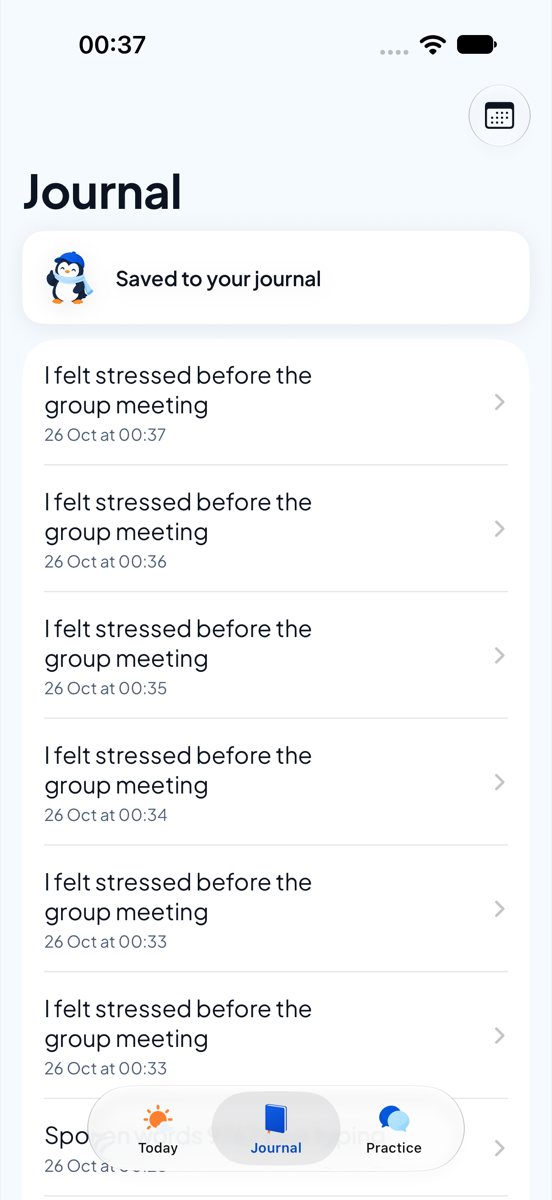
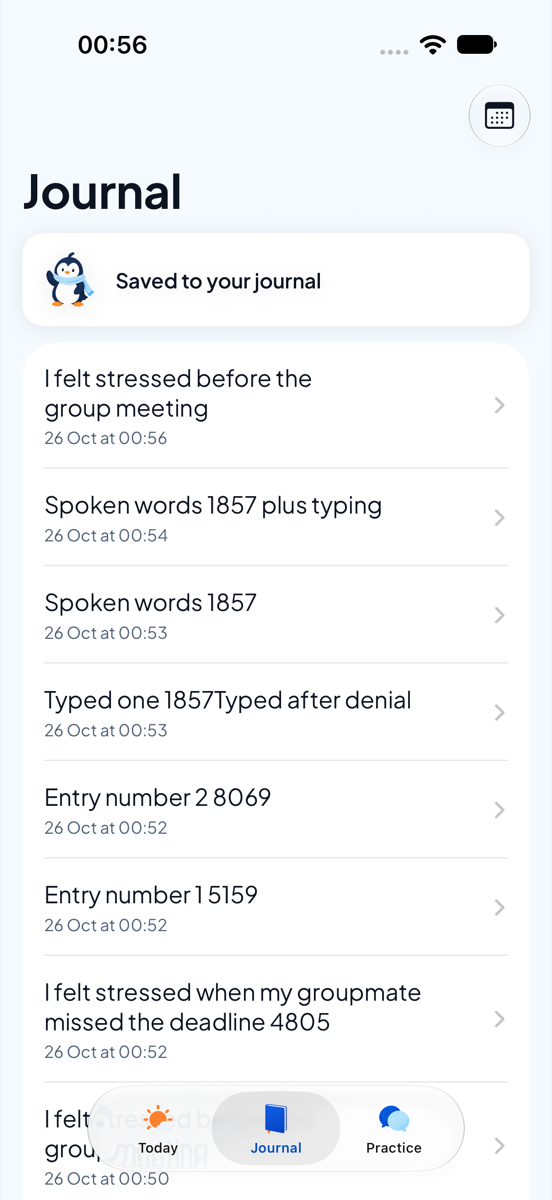
fix(guest): reset Today's path after saving; calmer, accessible save moment
- Today uses a path-based stack (write, review): Save with reflection no
  longer leaves a blank screen on Today. Found by the new UI test.
- Codex should-fixes: neutral waving Pingu for the automatic save moment,
  Reduce Motion respected, banner art hidden at accessibility sizes.
- Refreshed screenshots; log and Codex review.

diff --git a/Circleu/Features/GuestJournal/GuestJournalScreens.swift b/Circleu/Features/GuestJournal/GuestJournalScreens.swift
@@ -69,24 +69,27 @@ struct GuestTodayView: View {
     let makeDictationEngine: () -> any GuestDictationEngine
     let suggester: any GuestSuggesting
     let onSaved: () -> Void
-    @State private var isWriting = false
+    /// Write, then optionally the reflection review. Saving clears the whole path at once.
+    @State private var path: [TodayRoute] = []
+
+    enum TodayRoute: Hashable { case write, review }
 
     var body: some View {
-        NavigationStack {
+        NavigationStack(path: $path) {
             ScrollView {
                 VStack(alignment: .leading, spacing: 24) {
                     Text("What’s on your mind?")
                         .font(GuestBrand.font(.largeTitle, .bold)).foregroundStyle(GuestBrand.ink)
                         .accessibilityAddTraits(.isHeader)
                     GuestAvatarButton() // Tap to choose your Pingu.
-                    Button { isWriting = true } label: {
+                    Button { path = [.write] } label: {
                         Label("Work through a moment", systemImage: "arrow.right")
                             .labelStyle(TrailingIconLabelStyle())
                     }
                     .buttonStyle(GuestBrandButtonStyle())
                     // Shown only when there is something to continue.
                     if !journal.draft.trimmingCharacters(in: .whitespacesAndNewlines).isEmpty {
-                        Button { isWriting = true } label: {
+                        Button { path = [.write] } label: {
                             Label {
                                 Text("Continue your draft")
                             } icon: {
@@ -107,13 +110,23 @@ struct GuestTodayView: View {
                 }
                 .accessibilityLabel("Settings")
             }
-            .navigationDestination(isPresented: $isWriting) {
-                GuestWriteView(journal: journal, dictationEngine: makeDictationEngine(), suggester: suggester) {
-                    isWriting = false
-                    onSaved()
+            .navigationDestination(for: TodayRoute.self) { route in
+                switch route {
+                case .write:
+                    GuestWriteView(journal: journal, dictationEngine: makeDictationEngine(),
+                                   onGetSuggestion: { path.append(.review) }, onSaved: finish)
+                case .review:
+                    GuestReflectionReviewView(journal: journal, suggester: suggester, onSaved: finish)
                 }
             }
         }
+    }
+}
+
+extension GuestTodayView {
+    fileprivate func finish() {
+        path = []
+        onSaved()
     }
 }
 
@@ -128,17 +141,16 @@ private struct TrailingIconLabelStyle: LabelStyle {
 struct GuestWriteView: View {
     @ObservedObject var journal: GuestJournalViewModel
     @StateObject private var dictation: GuestDictationViewModel
-    let suggester: any GuestSuggesting
+    let onGetSuggestion: () -> Void
     let onSaved: () -> Void
-    @State private var reviewing = false
     @FocusState private var focused: Bool
     @Environment(\.scenePhase) private var scenePhase
     @Environment(\.openURL) private var openURL
 
     init(journal: GuestJournalViewModel, dictationEngine: @autoclosure @escaping () -> any GuestDictationEngine,
-         suggester: any GuestSuggesting, onSaved: @escaping () -> Void) {
+         onGetSuggestion: @escaping () -> Void, onSaved: @escaping () -> Void) {
         self.journal = journal
-        self.suggester = suggester
+        self.onGetSuggestion = onGetSuggestion
         self.onSaved = onSaved
         _dictation = StateObject(wrappedValue: GuestDictationViewModel(journal: journal, engine: dictationEngine()))
     }
@@ -189,7 +201,7 @@ struct GuestWriteView: View {
                 // Opt-in: a suggestion is only made when asked for.
                 Button {
                     dictation.stopForSave()
-                    reviewing = true
+                    onGetSuggestion()
                 } label: {
                     Label { Text("Get a suggestion") } icon: { GuestBrandIcon(asset: "GuestIconReflection") }
                 }
@@ -205,12 +217,6 @@ struct GuestWriteView: View {
             .disabled(empty || journal.isSaving)
             .padding(.horizontal, 24).padding(.vertical, 12)
             .background(GuestBrand.ice)
-        }
-        .navigationDestination(isPresented: $reviewing) {
-            GuestReflectionReviewView(journal: journal, suggester: suggester) {
-                reviewing = false
-                onSaved()
-            }
         }
         .background(GuestBrand.ice.ignoresSafeArea())
         .navigationBarTitleDisplayMode(.inline)
@@ -269,6 +275,7 @@ struct GuestJournalListView: View {
     @State private var query = ""
     @State private var showsCalendar = false
     @State private var showsSaved = false
+    @Environment(\.accessibilityReduceMotion) private var reduceMotion
     @State private var selectedDay: Date?
 
     var body: some View {
@@ -338,9 +345,10 @@ struct GuestJournalListView: View {
             // Runs on first appearance too, so the moment shows when saving switches to this tab.
             .task(id: journal.lastSavedAt) {
                 guard let saved = journal.lastSavedAt, Date().timeIntervalSince(saved) < 3 else { return }
-                withAnimation { showsSaved = true }
+                let motion: Animation? = reduceMotion ? nil : .default // No sliding with Reduce Motion.
+                withAnimation(motion) { showsSaved = true }
                 try? await Task.sleep(for: .seconds(2.5))
-                withAnimation { showsSaved = false }
+                withAnimation(motion) { showsSaved = false }
             }
             .toolbar {
                 Button { withAnimation { showsCalendar.toggle() } } label: {

diff --git a/Circleu/Features/GuestJournal/GuestPinguArt.swift b/Circleu/Features/GuestJournal/GuestPinguArt.swift
@@ -93,14 +93,18 @@ struct GuestPinguMessage: View {
     }
 }
 
-/// A brief "Saved" moment with a small Pingu; announced for VoiceOver, then it goes.
+/// A brief "Saved" moment with a small Pingu; announced for VoiceOver, then it goes. The default
+/// pose is a neutral wave, so it never reads as approval of what was written.
 struct GuestSuccessBanner: View {
     let text: String
-    var asset = "GuestPinguThumbsUp"
+    var asset = "GuestPinguWelcome"
+    @Environment(\.dynamicTypeSize) private var typeSize
 
     var body: some View {
         HStack(spacing: 12) {
-            Image(asset).resizable().scaledToFit().frame(width: 44, height: 44).accessibilityHidden(true)
+            if !typeSize.isAccessibilitySize {
+                Image(asset).resizable().scaledToFit().frame(width: 44, height: 44).accessibilityHidden(true)
+            }
             Text(text).font(GuestBrand.font(.subheadline, .semibold)).foregroundStyle(GuestBrand.ink)
             Spacer(minLength: 0)
         }

diff --git a/docs/agent-collaboration-log/2026-10-26-012000-claude-guest-ui-polish.md b/docs/agent-collaboration-log/2026-10-26-012000-claude-guest-ui-polish.md
@@ -1,0 +1,49 @@
+# UI polish: Pingu avatar picker, Pingu moments and illustrated icons
+
+- Recorded: 2026-10-26 01:20:00 +11:00; Australia/Sydney
+- Agent / role: Claude Code (implementer), on Mike's Mac
+- Status: completed; merged under Mike's auto-merge-when-green rule
+- Base revision and branch: `codex/guest-ui-polish` from `main` at `ef28b1e`
+- Related record / task / PR: [UI feedback backlog](../design/ui-feedback-backlog.md) item 1; [screenshots](../qa/screenshots/ui-polish-2026-10-26)
+
+## Request and scope
+
+Mike asked for more of the Codex Pingu and icon assets in the UI. This supersedes the earlier "restrained illustrations" choice. Guest journal only.
+
+## Work and outcome
+
+- **Avatars:** all 21 Pingu avatars are bundled, downscaled to 420 px (about 2.4 MB in total).
+  - Choose one from the Today hero or Settings → Your Pingu. Each has a spoken name.
+  - The choice is kept on this iPhone under a new key, `circleu.guest.avatar.v1` (no legacy keys), and Delete all resets it.
+- **Pingu moments:**
+  - empty Journal: writing;
+  - no search results: thinking;
+  - empty calendar day: sleeping;
+  - "Saved to your journal": a neutral wave, shown in the top inset so it doesn't cover the new entry;
+  - saved Practice message: a wave next to "Saved · not sent".
+- **Illustrated icons:** reflection, feeling, next step and privacy; Settings section headers; Get a suggestion. Native symbols stay for the microphone, back, Edit and delete.
+- **Accessibility:**
+  - decorative art is hidden from VoiceOver and left out at accessibility text sizes;
+  - the saved moment is announced;
+  - Reduce Motion turns off the sliding animation.
+- **Bug fix found by the new UI test:** after **Save with reflection**, going back to Today showed a blank pushed screen. Two nested `isPresented` destinations were being popped at once. Today now uses a path-based stack (`write`, `review`), and saving clears the whole path. This also affected batch A on Mike's phone.
+
+## Verification
+
+- **Full local suite:** 224 passed, 0 failed, 1 skipped (device-only). The new tests check that all 21 avatars and the icons load, that Delete all resets the avatar, and the save moment.
+- **Out-of-repo XCUITests** (iPhone 18 Pro / iOS 27.0), eight passed, including a new screenshot test that checks Today returns to its start after saving.
+- **Not run:** VoiceOver and Reduce Motion on a device; CI (manual by owner decision).
+
+## Discussion and decisions
+
+- **Codex** ([log](2026-10-26-011500-codex-review-guest-ui-polish.md)): no blocker. All three should-fixes were applied:
+  - neutral pose for the automatic save moment;
+  - Reduce Motion;
+  - banner art hidden at accessibility sizes.
+- The navigation fix came afterwards from my own UI test and has not been reviewed by Codex. It is small and covered by the UI test.
+
+## Handoff
+
+- Remaining work: Mike's phone check with the screenshots; batch C (import approved by Mike: copy-only, preview, idempotent, reports skips).
+- Owner: Mike (check); Claude (batch C)
+- Risks / unresolved questions: none new.

diff --git a/docs/agent-collaboration-log/2026-10-26-011500-codex-review-guest-ui-polish.md b/docs/agent-collaboration-log/2026-10-26-011500-codex-review-guest-ui-polish.md
@@ -1,0 +1,15 @@
+**2026-10-26 — Codex review — `5e91177` — guest UI polish**
+
+**Verdict: no BLOCKER found; three SHOULD-FIX items.** Review-only; no files edited.
+
+- **SHOULD-FIX — Approval ambiguity:** [GuestPinguArt.swift:99](<../../Circleu/Features/GuestJournal/GuestPinguArt.swift:99>) defaults the save confirmation to a thumbs-up. Beside sensitive journal content, this can read as approval of what was written. Use a neutral journal/waving pose for automatic confirmations; retain thumbs-up as an explicit avatar choice.
+
+- **SHOULD-FIX — Reduce Motion ignored:** [GuestJournalScreens.swift:335](<../../Circleu/Features/GuestJournal/GuestJournalScreens.swift:335>) introduces a sliding banner and animated list displacement without consulting `accessibilityReduceMotion`. Disable movement when that preference is enabled.
+
+- **SHOULD-FIX — Accessibility-size decoration exemption:** [GuestPinguArt.swift:103](<../../Circleu/Features/GuestJournal/GuestPinguArt.swift:103>) always reserves 44×44 points for decorative artwork, unlike `GuestPinguDecoration`. Hide it at accessibility sizes so the confirmation text gets the available width.
+
+**Checked:** HEAD stat and Swift diff, surrounding save/delete/export/navigation code, new tests, and committed saved-banner screenshot. The new preference key is absent from the parent commit; no legacy defaults keys are changed. Avatar reset follows committed deletion and is skipped on failure. Picker labels, selected traits and generously sized controls are present; decorative images are VoiceOver-hidden and banners post announcements. No mood-detection or reward logic found.
+
+Added app PNGs total **2,443,691 bytes**: 19 poses at 420×420 and ten icon files at 56×56/84×84; manifest references resolve. `git diff --check HEAD^ HEAD` passed; working tree clean.
+
+**Not checked:** build/XCTest execution, live VoiceOver announcement timing, actual hit testing, accessibility-size layouts, Reduce Motion behavior, earlier-flow runtime regressions, physical devices, compiled asset size or memory use. Existing QA claims were not independently rerun. Inter-agent exchanges: none.
